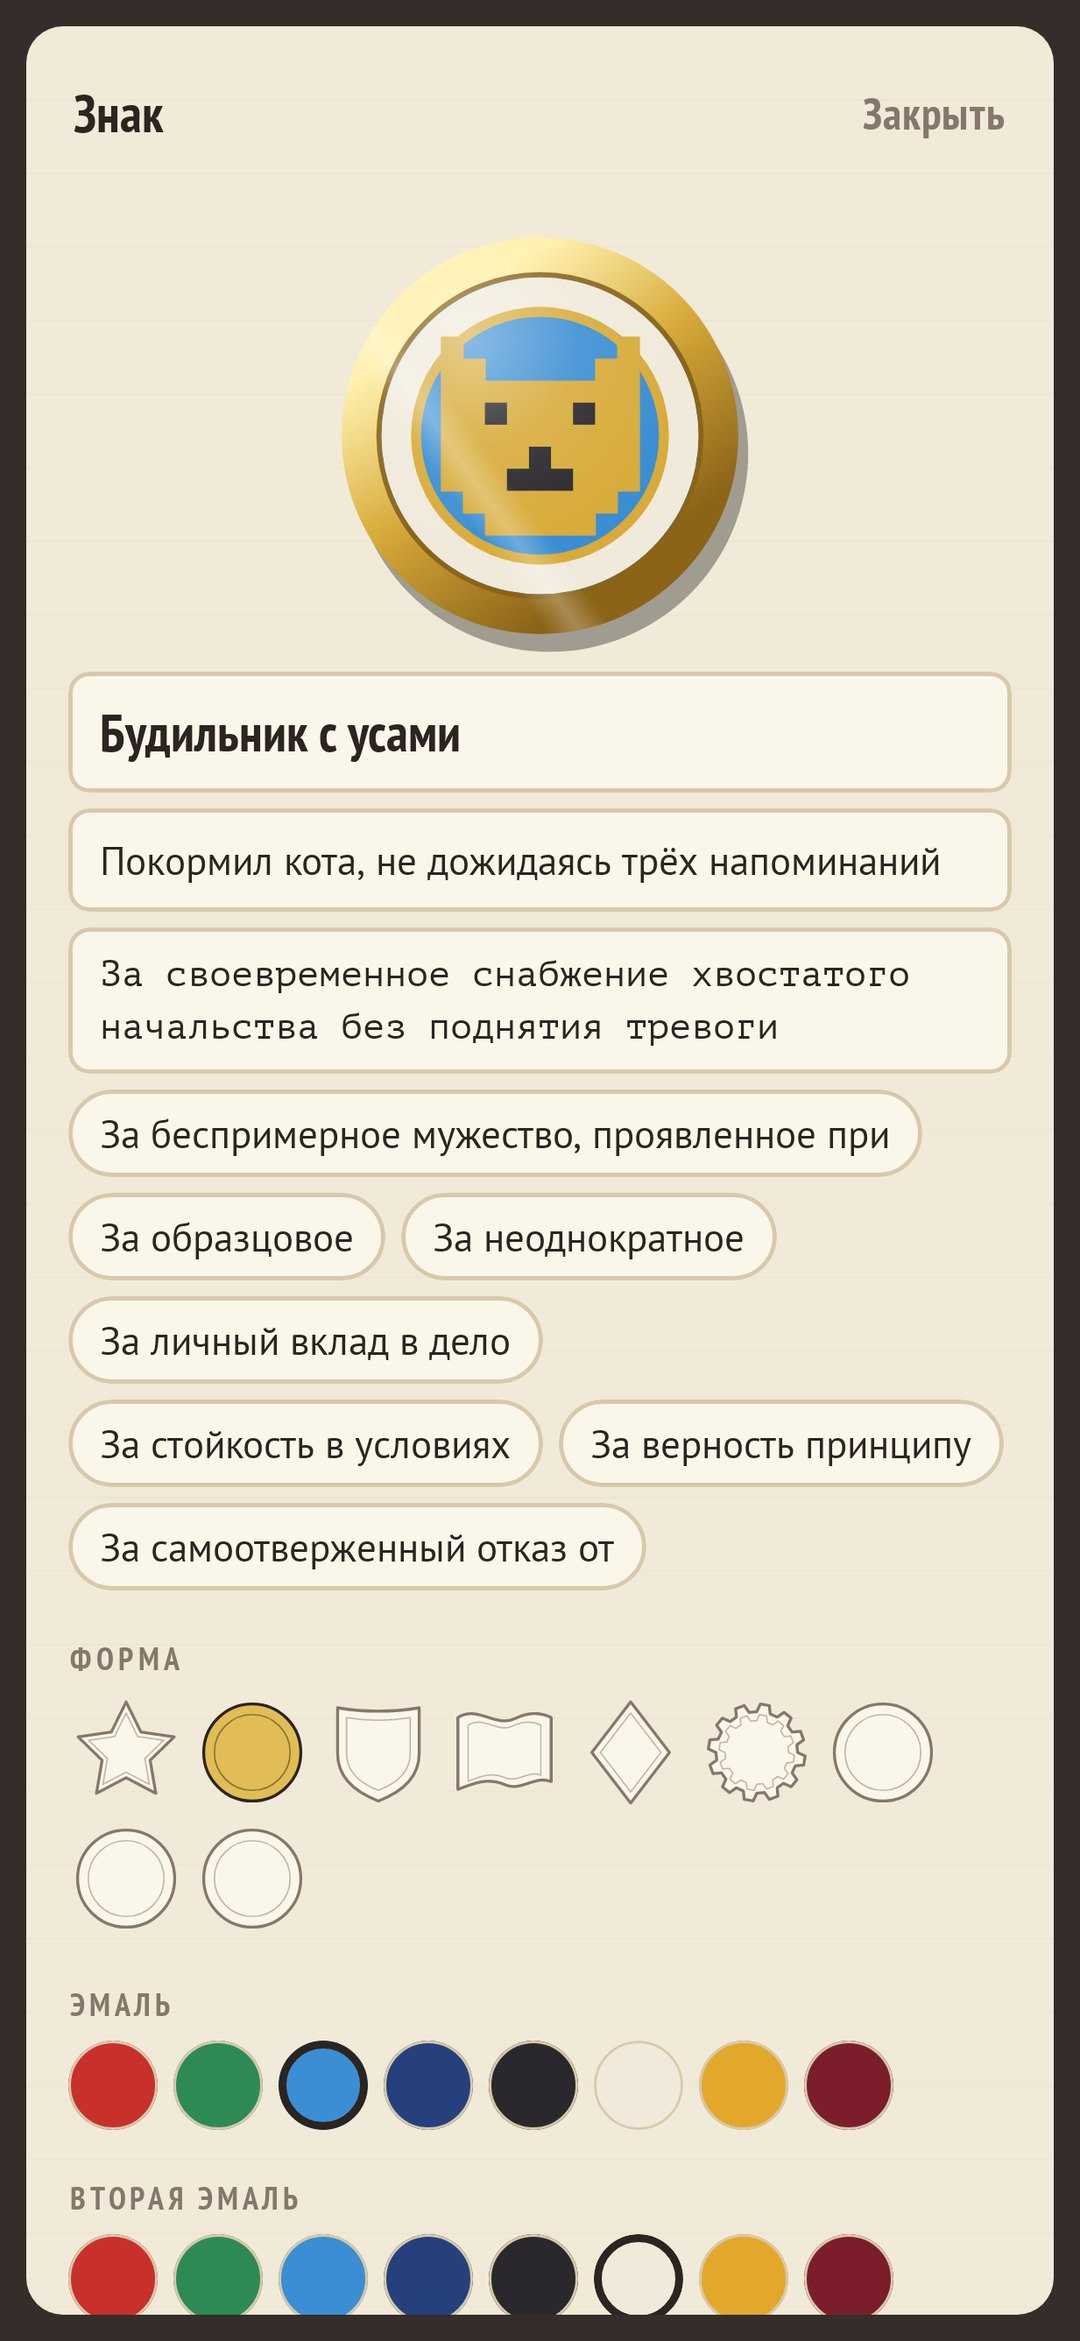
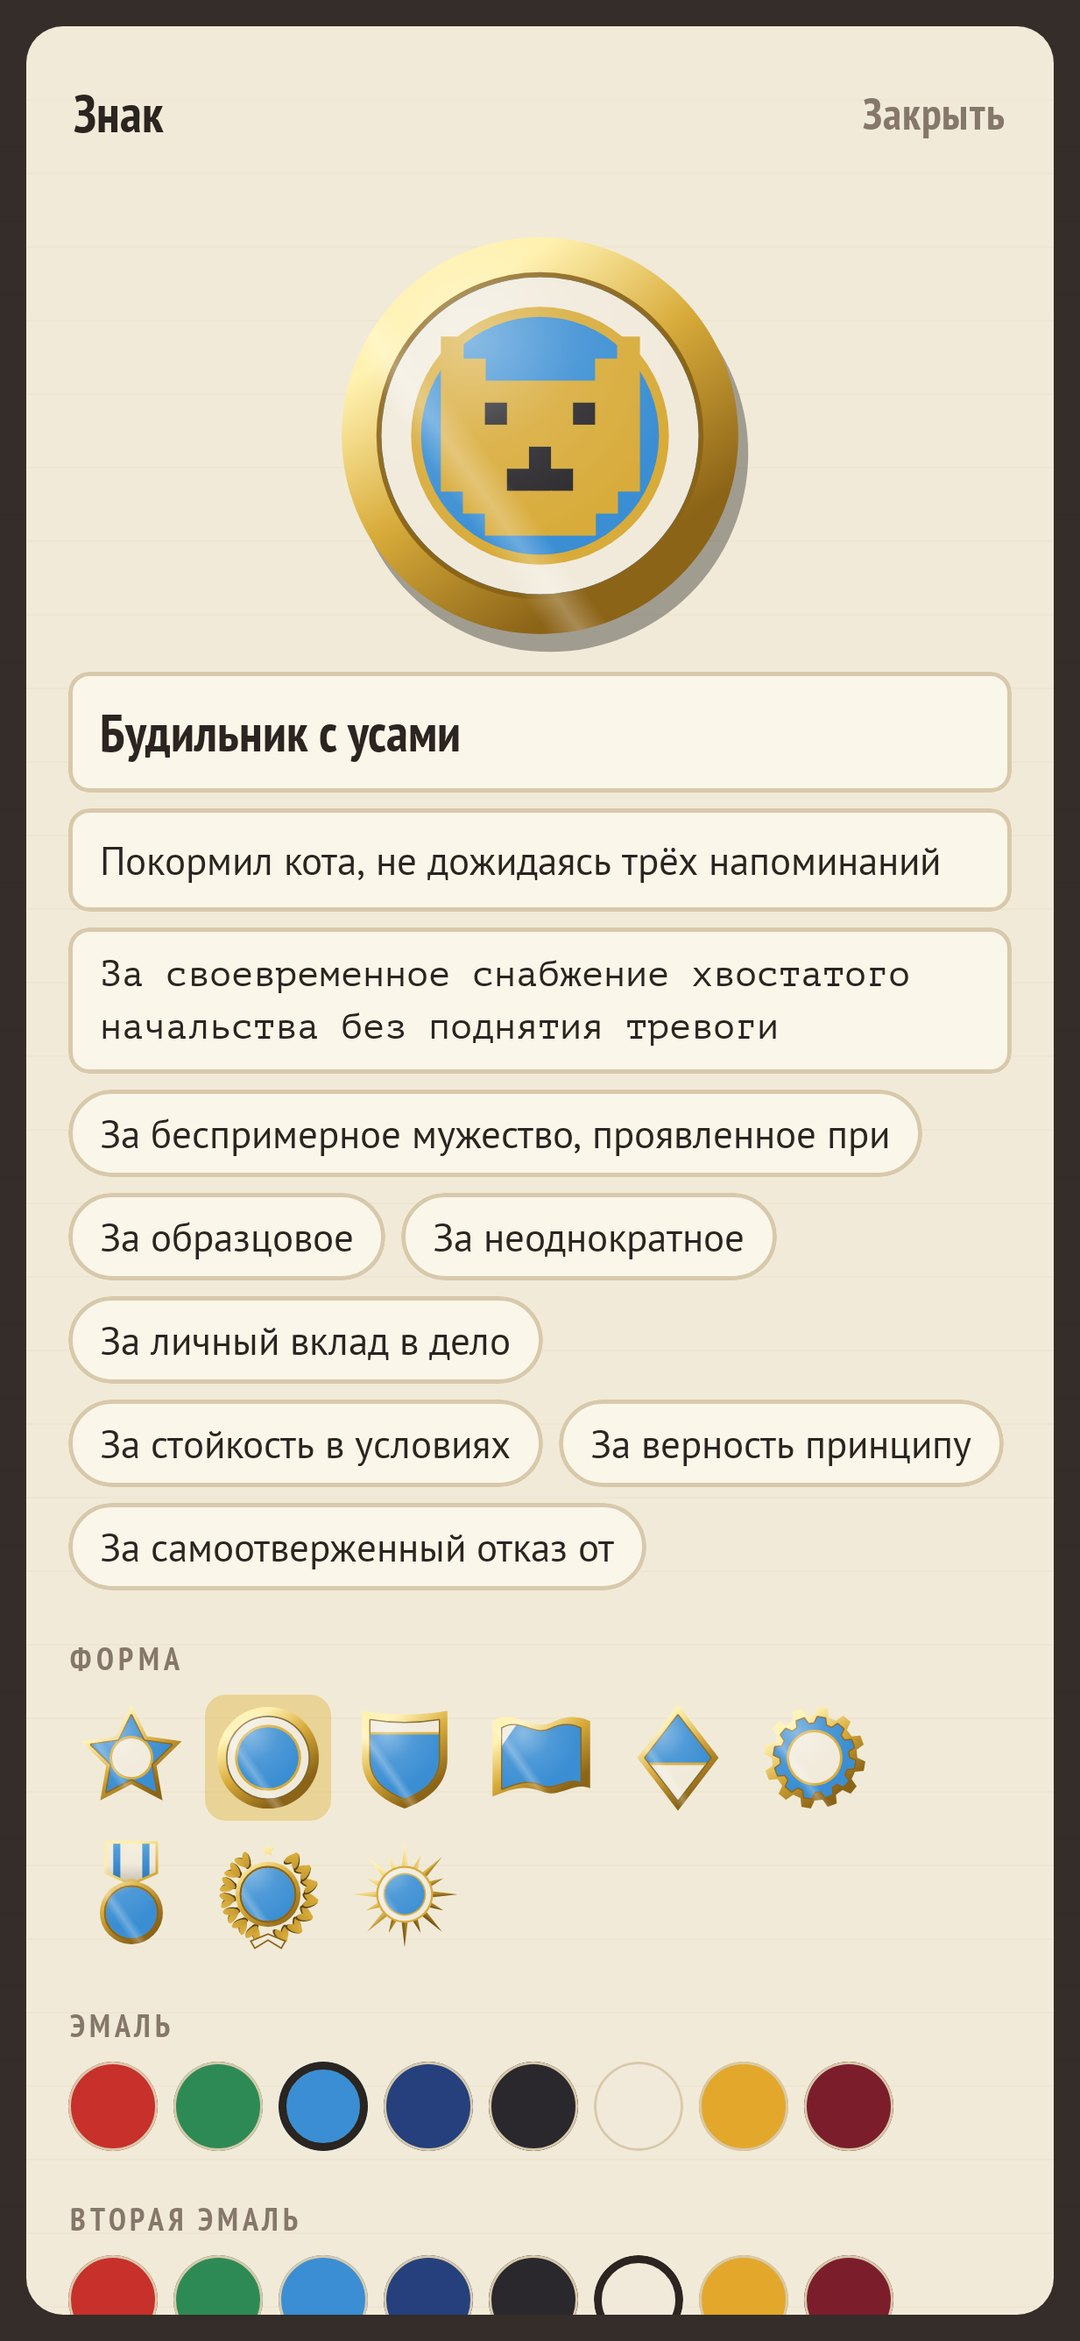
Fixes from the phone check
Steady order paper while typing, quotes not doubled around titles that
carry their own, real shape previews in the workshop, a navy instead of a
second ochre in the drawing palette, bigger badges on the pennant, and the
hard-day card worded for days that already have awards.

diff --git a/app/src/main/java/app/honours/ui/commission/CommissionScreen.kt b/app/src/main/java/app/honours/ui/commission/CommissionScreen.kt
@@ -101,7 +101,7 @@ fun CommissionScreen(h: Home, nav: Nav, picked: SnapshotStateList<String>) {
                 Gap(14)
                 if (todayKeys.none { it == app.honours.domain.Specials.SURVIVED }) {
                     Card(bg = C.velvet) {
-                        Text(w.t("Ничего не было? Тяжёлый день?", "Nothing happened? A hard day?"), style = T.Heading.copy(color = C.gold))
+                        Text(if (today.isEmpty()) w.t("Ничего не было? Тяжёлый день?", "Nothing happened? A hard day?") else w.t("И всё-таки тяжёлый день?", "A hard day all the same?"), style = T.Heading.copy(color = C.gold))
                         Text(w.t("Комиссия знает: иногда подвиг — просто дожить до вечера. За это полагается орден.", "The commission knows: sometimes the deed is simply getting to the evening. There's an order for that."),
                             style = T.Small.copy(color = C.card.copy(alpha = .8f)), modifier = Modifier.padding(vertical = 6.dp))
                         Btn(w.t("Орден Пережитого Дня", "Order of the Day Survived"), Modifier.fillMaxWidth(), kind = Kind.GOLD, enabled = !busy) {
@@ -147,7 +147,7 @@ fun DeedRow(h: Home, b: Badge, on: Boolean, onToggle: () -> Unit) {
         Column(Modifier.weight(1f)) {
             Text(w.deed(b), style = T.Body)
             Text(
-                if (n > 0) w.t("«${w.name(b)}» · ${w.metal(h.s.metal(b.key))} · ${w.times(n)}", "“${w.name(b)}” · ${w.metal(h.s.metal(b.key))} · ${w.times(n)}")
+                if (n > 0) "${w.quoted(b)} · ${w.metal(h.s.metal(b.key))} · ${w.times(n)}"
                 else b.dept?.let { w.t("новый знак · ${w.dept(it)}", "a new badge · ${w.dept(it)}") } ?: w.t("свой знак", "your own badge"),
                 style = T.Small,
             )

diff --git a/app/src/main/java/app/honours/ui/workshop/WorkshopScreen.kt b/app/src/main/java/app/honours/ui/workshop/WorkshopScreen.kt
@@ -61,7 +61,6 @@ import app.honours.ui.components.Kind
 import app.honours.ui.components.Label
 import app.honours.ui.components.LocalToast
 import app.honours.ui.components.Sheet
-import app.honours.ui.components.ShapeIcon
 import app.honours.ui.components.TopBar
 import app.honours.ui.components.rememberLight
 import app.honours.ui.theme.C
@@ -114,7 +113,7 @@ fun WorkshopScreen(h: Home, nav: Nav) {
                 Label(w.t("Выданные листы", "Sheets given"))
                 for (g in h.s.given.reversed()) {
                     val b = h.badge(g.key) ?: continue
-                    Text("${w.date(g.at.date(h.zone))} — ${g.to}: «${w.name(b)}»", style = T.Order, modifier = Modifier.padding(vertical = 2.dp))
+                    Text("${w.date(g.at.date(h.zone))} — ${g.to}: ${w.quoted(b)}", style = T.Order, modifier = Modifier.padding(vertical = 2.dp))
                 }
             }
             Gap(24)
@@ -164,7 +163,9 @@ fun OwnEditor(h: Home, id: Long, nav: Nav) {
         }
         Label(w.t("Форма", "Shape"))
         Flow(gap = 4.dp) {
-            for (s in Shape.entries) Box(Modifier.clip(RoundedCornerShape(8.dp)).clickable { shape = s }) { ShapeIcon(s, 44.dp, s == shape) }
+            for (s in Shape.entries) Box(Modifier.clip(RoundedCornerShape(8.dp)).background(if (s == shape) C.gold.copy(alpha = .5f) else Color.Transparent).clickable { shape = s }.padding(2.dp)) {
+                Canvas(Modifier.size(44.dp)) { badge(Look(s, enamel, band, null), Metal.GOLD, Offset(size.width / 2, size.height / 2), size.minDimension * .44f, shadow = false) }
+            }
         }
         Label(w.t("Эмаль", "Enamel"))
         Swatches(enamel) { enamel = it }

diff --git a/app/src/main/java/app/honours/ui/ceremony/Ceremony.kt b/app/src/main/java/app/honours/ui/ceremony/Ceremony.kt
@@ -165,7 +165,12 @@ private fun Award(h: Home, a: Awarded, index: Int, total: Int, pins: Boolean, on
         Box(Modifier.padding(top = 16.dp).fillMaxWidth()) {
             Column(Modifier.fillMaxWidth().clip(RoundedCornerShape(4.dp)).background(C.card).padding(16.dp)) {
                 Text(w.t("Наградная комиссия постановляет:", "The Awards Commission resolves:"), style = T.Small.copy(fontFamily = Mono))
-                Text(order.take(typed), style = T.Order.copy(fontSize = 15.sp, lineHeight = 22.sp), modifier = Modifier.padding(top = 6.dp))
+                // The whole order is laid out invisibly underneath, so the paper doesn't grow while it's typed.
+                Box(Modifier.padding(top = 6.dp)) {
+                    val style = T.Order.copy(fontSize = 15.sp, lineHeight = 22.sp)
+                    Text(order, style = style.copy(color = androidx.compose.ui.graphics.Color.Transparent))
+                    Text(order.take(typed), style = style)
+                }
                 // Keeps the paper its final height while the words are typed, and leaves the stamp its own corner.
                 Box(Modifier.height(104.dp))
             }

diff --git a/app/src/main/java/app/honours/ui/components/Components.kt b/app/src/main/java/app/honours/ui/components/Components.kt
@@ -52,7 +52,6 @@ import androidx.compose.ui.unit.Dp
 import androidx.compose.ui.unit.dp
 import app.honours.domain.Badge
 import app.honours.domain.Metal
-import app.honours.domain.Shape
 import app.honours.ui.art.Badges.badge
 import app.honours.ui.art.Badges.blank
 import app.honours.ui.theme.C
@@ -167,12 +166,6 @@ fun BadgeIcon(b: Badge, metal: Metal?, size: Dp, modifier: Modifier = Modifier, 
         if (metal == null) blank(b.look.shape, c, r, C.paperDark, C.muted.copy(alpha = .45f))
         else badge(b.look, metal, c, r, light, shadow = true)
     }
-}
-
-/** The empty outline of a shape, for choices in the workshop. */
-@Composable
-fun ShapeIcon(s: Shape, size: Dp, on: Boolean) {
-    Canvas(Modifier.size(size)) { blank(s, Offset(this.size.width / 2, this.size.height / 2), this.size.minDimension * .42f, if (on) C.gold else C.card, if (on) C.ink else C.muted) }
 }
 
 /** Short messages at the bottom of the screen. */

diff --git a/app/src/main/java/app/honours/domain/Catalog.kt b/app/src/main/java/app/honours/domain/Catalog.kt
@@ -101,7 +101,7 @@ object Specials {
             Tx("{Изобретатель|Изобретательница}", "Inventor"),
             Tx("За рационализаторское предложение в области наградного дела", "For an innovative proposal in the field of award-making")),
         b(GIVER, Shape.MEDAL, 2, 5, "gift",
-            Tx("Награжден{|а} кто-то другой", "Someone else was honoured"),
+            Tx("Наградил{|а} кого-то другого", "Honoured someone else"),
             Tx("Наградной отдел", "Awards Department"),
             Tx("За то, что заметил{|а} чужой малый подвиг и не промолчал{|а}", "For noticing someone else's small deed and not keeping quiet")),
         b(GOLD, Shape.WREATH, 6, 0, "star",

diff --git a/app/src/main/java/app/honours/ui/Words.kt b/app/src/main/java/app/honours/ui/Words.kt
@@ -31,6 +31,12 @@ class Words(val ru: Boolean, val gender: Gender?) {
     fun n(n: Int, one: String, few: String, many: String, en1: String, enN: String) = if (ru) "$n ${plural(n, one, few, many)}" else "$n ${if (n == 1) en1 else enN}"
 
     fun name(b: Badge) = t(b.name)
+
+    /** The title in quotes, unless it already carries its own: «Укротитель сковороды», but Медаль «Шаг вперёд». */
+    fun quoted(b: Badge): String {
+        val n = name(b)
+        return if ('«' in n || '“' in n || '"' in n) n else if (ru) "«$n»" else "“$n”"
+    }
     fun deed(b: Badge) = t(b.deed)
     fun decree(b: Badge) = t(b.decree)
 

diff --git a/app/src/main/java/app/honours/ui/art/Badge.kt b/app/src/main/java/app/honours/ui/art/Badge.kt
@@ -43,8 +43,8 @@ object Badges {
         Metal.GOLD -> Tone(Color(0xFFD8AB3A), Color(0xFFFFF0A8), Color(0xFF8C6418), Color(0xFF5E420C))
     }
 
-    /** Pixel drawings use digit 1 for the metal and 2–7 for these enamels. */
-    private val PIXEL = listOf(0, 5, 2, 1, 6, 4)
+    /** Pixel drawings use digit 1 for the metal and 2–7 for these enamels: red, white, sky, green, navy, black. */
+    private val PIXEL = listOf(0, 5, 2, 1, 3, 4)
     fun pixelColor(d: Int, t: Tone): Color? = when (d) { 0 -> null; 1 -> t.base; else -> ENAMEL[PIXEL[(d - 2).coerceIn(0, 5)]] }
     const val PIXEL_COLORS = 7
 

diff --git a/app/src/main/java/app/honours/data/DemoSeed.kt b/app/src/main/java/app/honours/data/DemoSeed.kt
@@ -18,7 +18,7 @@ object DemoSeed {
     /** Deeds this person does often, so their badges reach silver and gold. */
     private val HABITS = listOf("water_before_lunch", "bed_made", "called_grandma", "read_ten_pages", "lay_no_phone", "plants_watered", "evening_walk", "pan_overnight")
 
-    /** A cat's face drawn on the 9×9 grid: 1 metal, 4 white, 7 black. */
+    /** A cat's face drawn on the 9×9 grid: 1 metal, 7 black. */
     private const val CAT =
         "100000001" +
         "110000011" +

diff --git a/app/src/main/java/app/honours/domain/Model.kt b/app/src/main/java/app/honours/domain/Model.kt
@@ -97,7 +97,7 @@ object Rules {
     const val PENNANT_W = 300f
     const val PENNANT_H = 440f
     /** A pinned badge's radius on the felt. */
-    const val PIN_R = 25f
+    const val PIN_R = 28f
     /** Badges on one pennant before a new one is hung. */
     const val PER_PENNANT = 16
     /** Awards of the same badge to reach class II and class I. */
